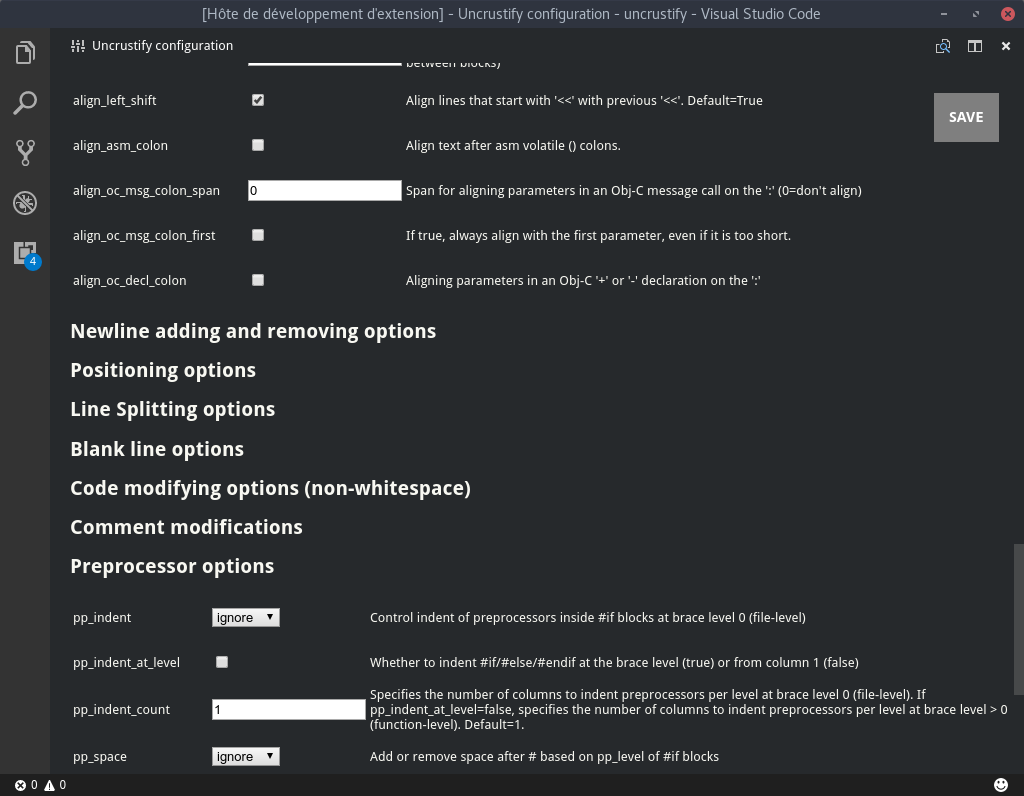
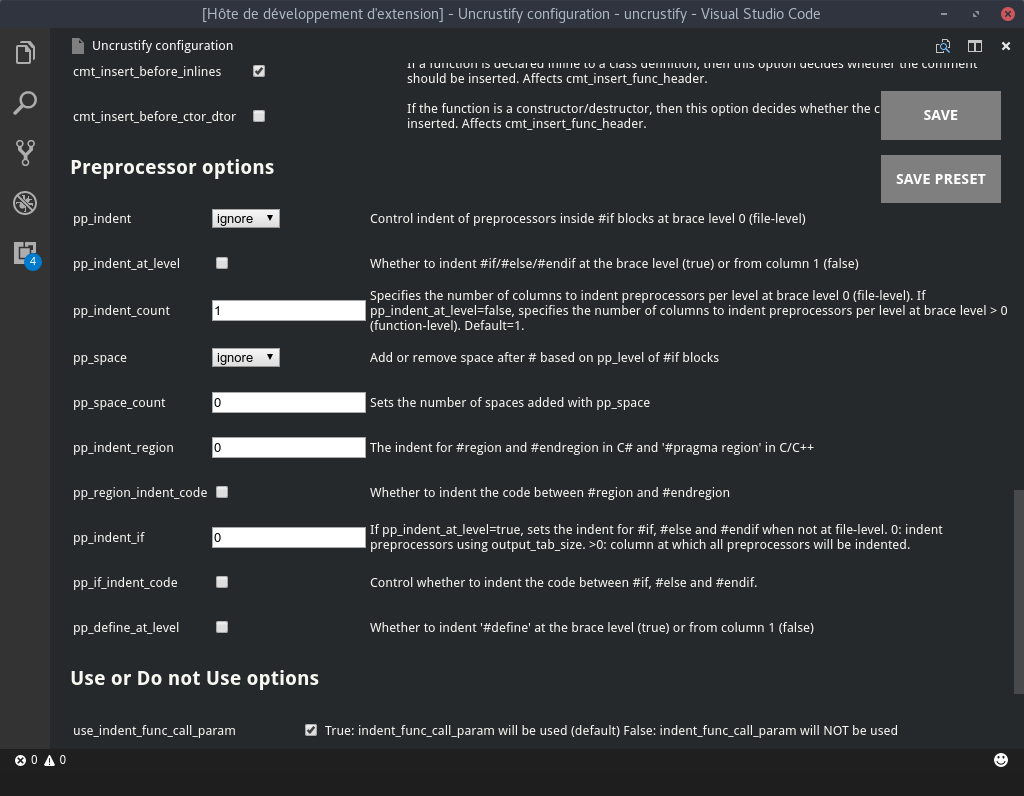
Update README and CHANGELOG

diff --git a/README.md b/README.md
@@ -35,6 +35,10 @@ Starting with version 2.0.0, opening the configured config file (or a file named
 ![configuration image](https://raw.githubusercontent.com/LaurentTreguier/vscode-uncrustify/master/images/screenshot.png)
 
 The graphical editor can be disabled in the [extension seetings](#extension-settings).
+Uncrustify's default config file keeps its version at the top of the file; if that version differs from the version of the uncrustify executable then a button will be available to upgrade the config file to the newer version. New items will be marked as such when using the graphical editor.
+
+![configuration upgrade image](https://raw.githubusercontent.com/LaurentTreguier/vscode-uncrustify/master/images/screenshot-upgrade.png)
+![configuration new items image](https://raw.githubusercontent.com/LaurentTreguier/vscode-uncrustify/master/images/screenshot-new-items.png)
 
 ## Extension commands
 
@@ -50,7 +54,3 @@ The graphical editor can be disabled in the [extension seetings](#extension-sett
 ## Changelog
 
 See CHANGELOG.md
-
-## TODO
-
-- Detect config file version and add ability to update the config file to match the uncrustify executable version

diff --git a/CHANGELOG.md b/CHANGELOG.md
@@ -1,5 +1,9 @@
 # Changelog
 
+### 2.2.0
+- Fixed preset loading that could interrupt config file download
+- Added the ability to upgrade config files when they are not made for the same version as the uncrustify executable
+
 ### 2.1.0
 - Added ability to save and load configuration file presets
 
